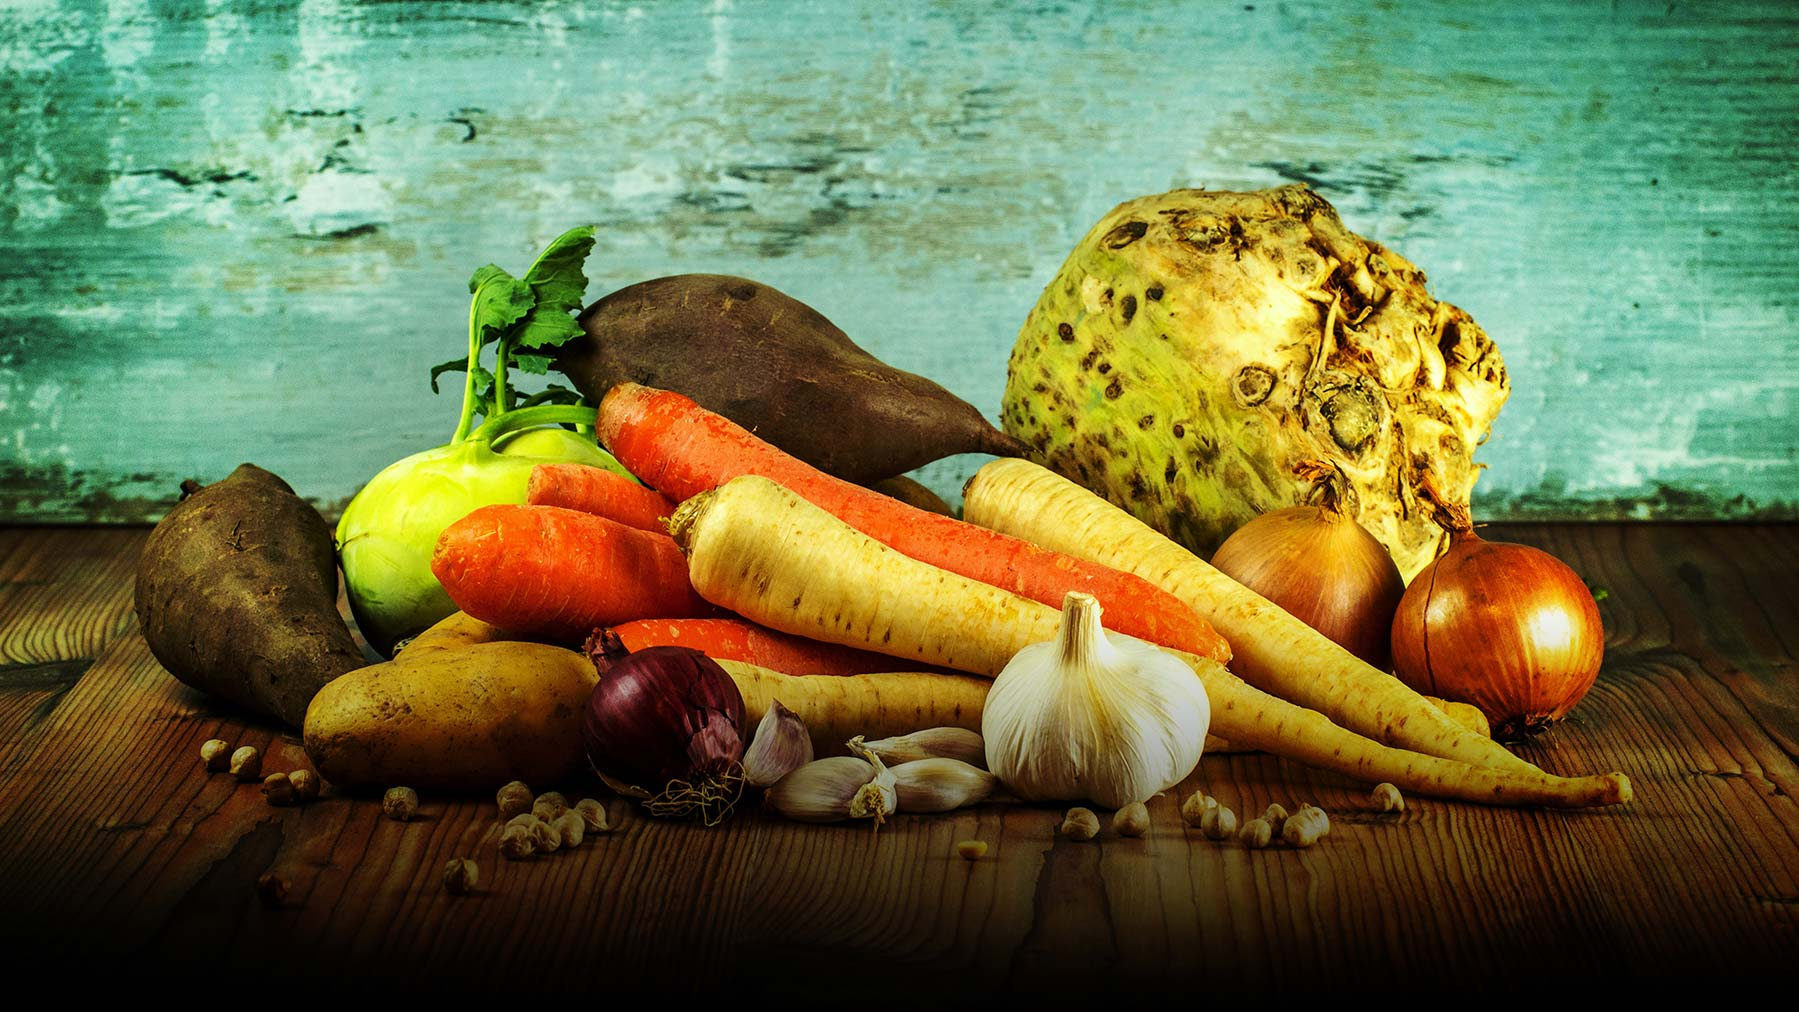
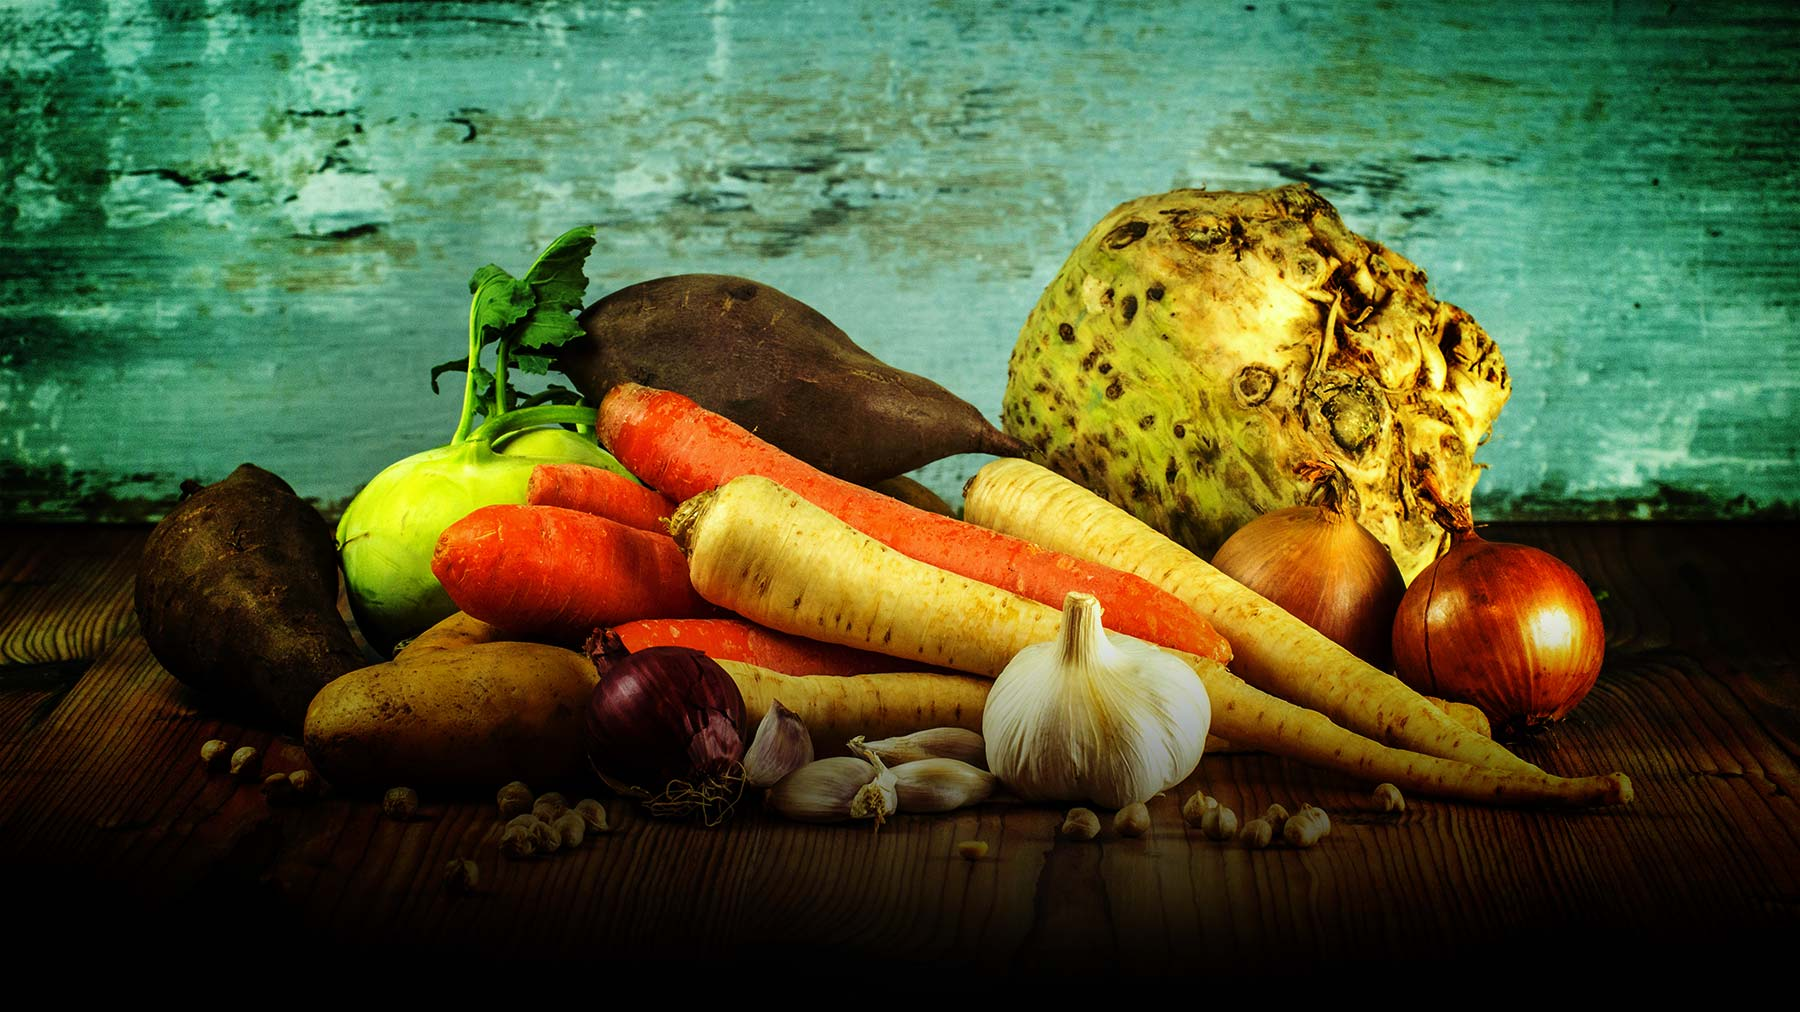
store image

diff --git a/css/custom.css b/css/custom.css
@@ -7,7 +7,6 @@ Importing styles
 @import 'checkout.css';
 @import 'normalize.css';
 @import 'responsive.css';
-@import 'responsive.css';
 @import 'feather.css';
 
 
@@ -40,7 +39,7 @@ Global styles - spacing
 }
 
 section {
-  padding-bottom: 5rem;
+  padding-bottom: 15vh;
 }
 
 /*
@@ -55,6 +54,10 @@ h1, h2, h3{
 
 h1{
     font-size: 5.75rem;
+}
+
+h1.big {
+  font-size: 12rem;
 }
 
 h2{
@@ -471,11 +474,18 @@ border-radius: 20px;
     z-index: 1500;
 }
 
+.storeHero{
+
+    background: url('../img/vegetables.jpg') no-repeat !important;
+    background-size: cover !important;
+}
+
 #store-grid{
     display: grid;
     grid-template-columns:250px;
     gap: 2em;
     justify-content: space-evenly;
+    margin-top: -120px;
 }
 
 #store img{
@@ -575,7 +585,7 @@ aside li{
 
 #store .btn_primary{
   padding: 24px 48px;
-    border-radius: 0 16px 16px 0;
+  border-radius: 0 16px 16px 0;
 }
 
 
@@ -587,7 +597,7 @@ call to action
 section#cta {
   background-position: center bottom;
   background-size: cover;
-  padding: 10vh 0;
+  padding: 25vh 0;
 }
 
 .cta1 {
@@ -601,12 +611,13 @@ section#cta {
 
 #cta .text {
   text-align: left;
+  padding-bottom: 10vh;
   color: #fdfdfd;
 }
 
 #cta h2 {
   text-align: left;
-  color: ;
+  line-height: 1;
 }
 
 .signUpBox {

diff --git a/index.html b/index.html
@@ -187,7 +187,24 @@
 
     </div>
   </section>
-  <section id="cta"></section>
+  <section id="cta" class="cta1">
+    <div class="container">
+    <div class="leftArea text">
+      <h2 class="sun">It's about more <br> than food waste</h2>
+      <h3>Easy support of your local farming community, whilst not compromising on quality.</h3>
+    </div>
+    <div class="rightArea">
+      <div class="signUpBox olive">
+
+        <h3>Recieve offers of <br>fresh produce near you</h3>
+      <form action="/">
+        <input type="text" name="full-name" placeholder="Name">
+        <input type="email" name="email" placeholder="Email">
+        <h3><a href="#"><input type="submit" value="Sign up now" id="" class="btn_cta"> <i class="feather-chevron-right"></i></a></h3>
+      </form>
+      </div>
+    </div>
+  </section>
   <footer>
     <div class="contact">
       <a href="mailto:zerowaist@farmfair.com">zerowaist@farmfair.com</a>
@@ -204,6 +221,8 @@
   <script src="js/vendor/modernizr-3.11.2.min.js"></script>
   <script src="js/plugins.js"></script>
   <script src="js/main.js"></script>
+
+  <script>https://cdnjs.cloudflare.com/ajax/libs/feather-icons/4.28.0/feather.min.js</script>
 </body>
 
 </html>

diff --git a/store.html b/store.html
@@ -35,9 +35,11 @@
     </nav>
 
   </header>
-  <section class="storeHero">
-    <h2>Products</h2>
-  </section>
+  <div id="hero" class="storeHero">
+    <div class="pageHeading">
+      <h1 class="big">Products</h1>
+    </div>
+  </div>
 
   <section id="store">
       <aside id="filterProducts">

diff --git a/css/responsive.css b/css/responsive.css
@@ -124,7 +124,12 @@ laptop
 
   /*container*/
   #cta .container {
-    grid-template-columns: 1fr 1fr;
+    grid-template-columns: 1fr 1fr !important;
+  }
+
+  section#cta {
+
+    padding: 15vh 0;
   }
 
 

diff --git a/css/main.css b/css/main.css
@@ -32,6 +32,7 @@ body {
   font-size: 16px;
   line-height: 1.4;
   overflow-x: hidden;
+  min-height: 100vh;
 }
 
 /*
